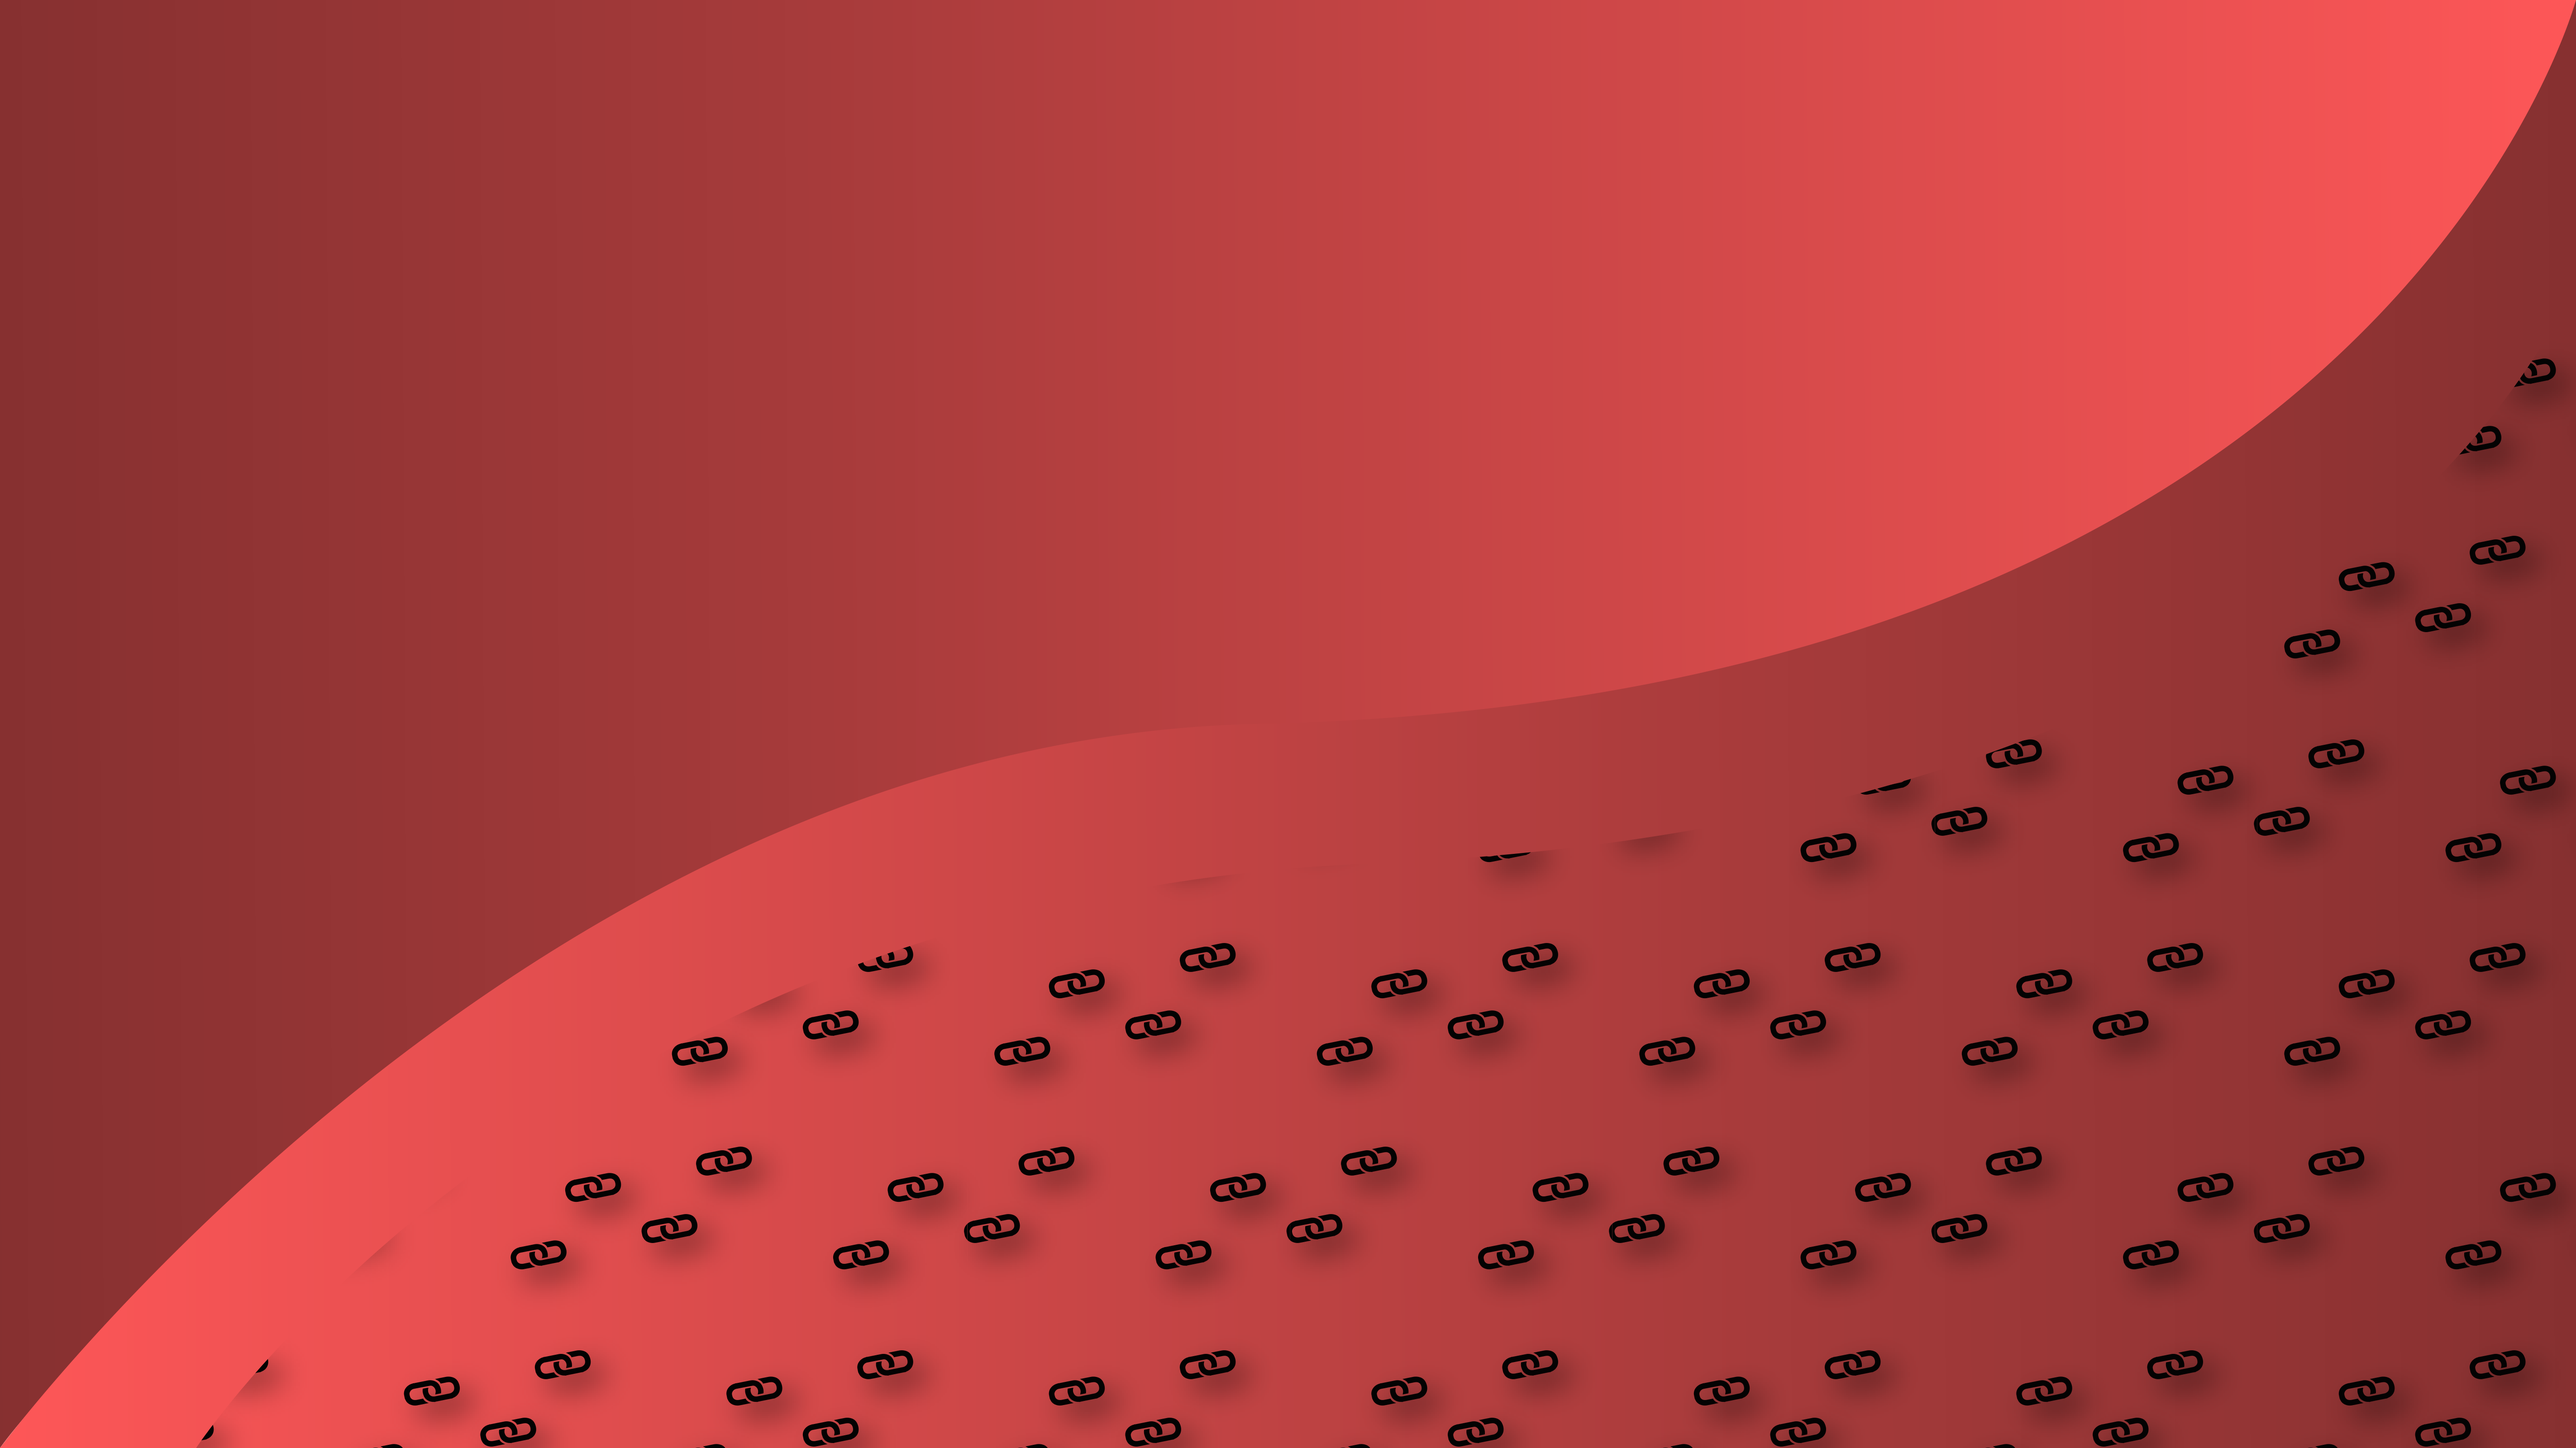
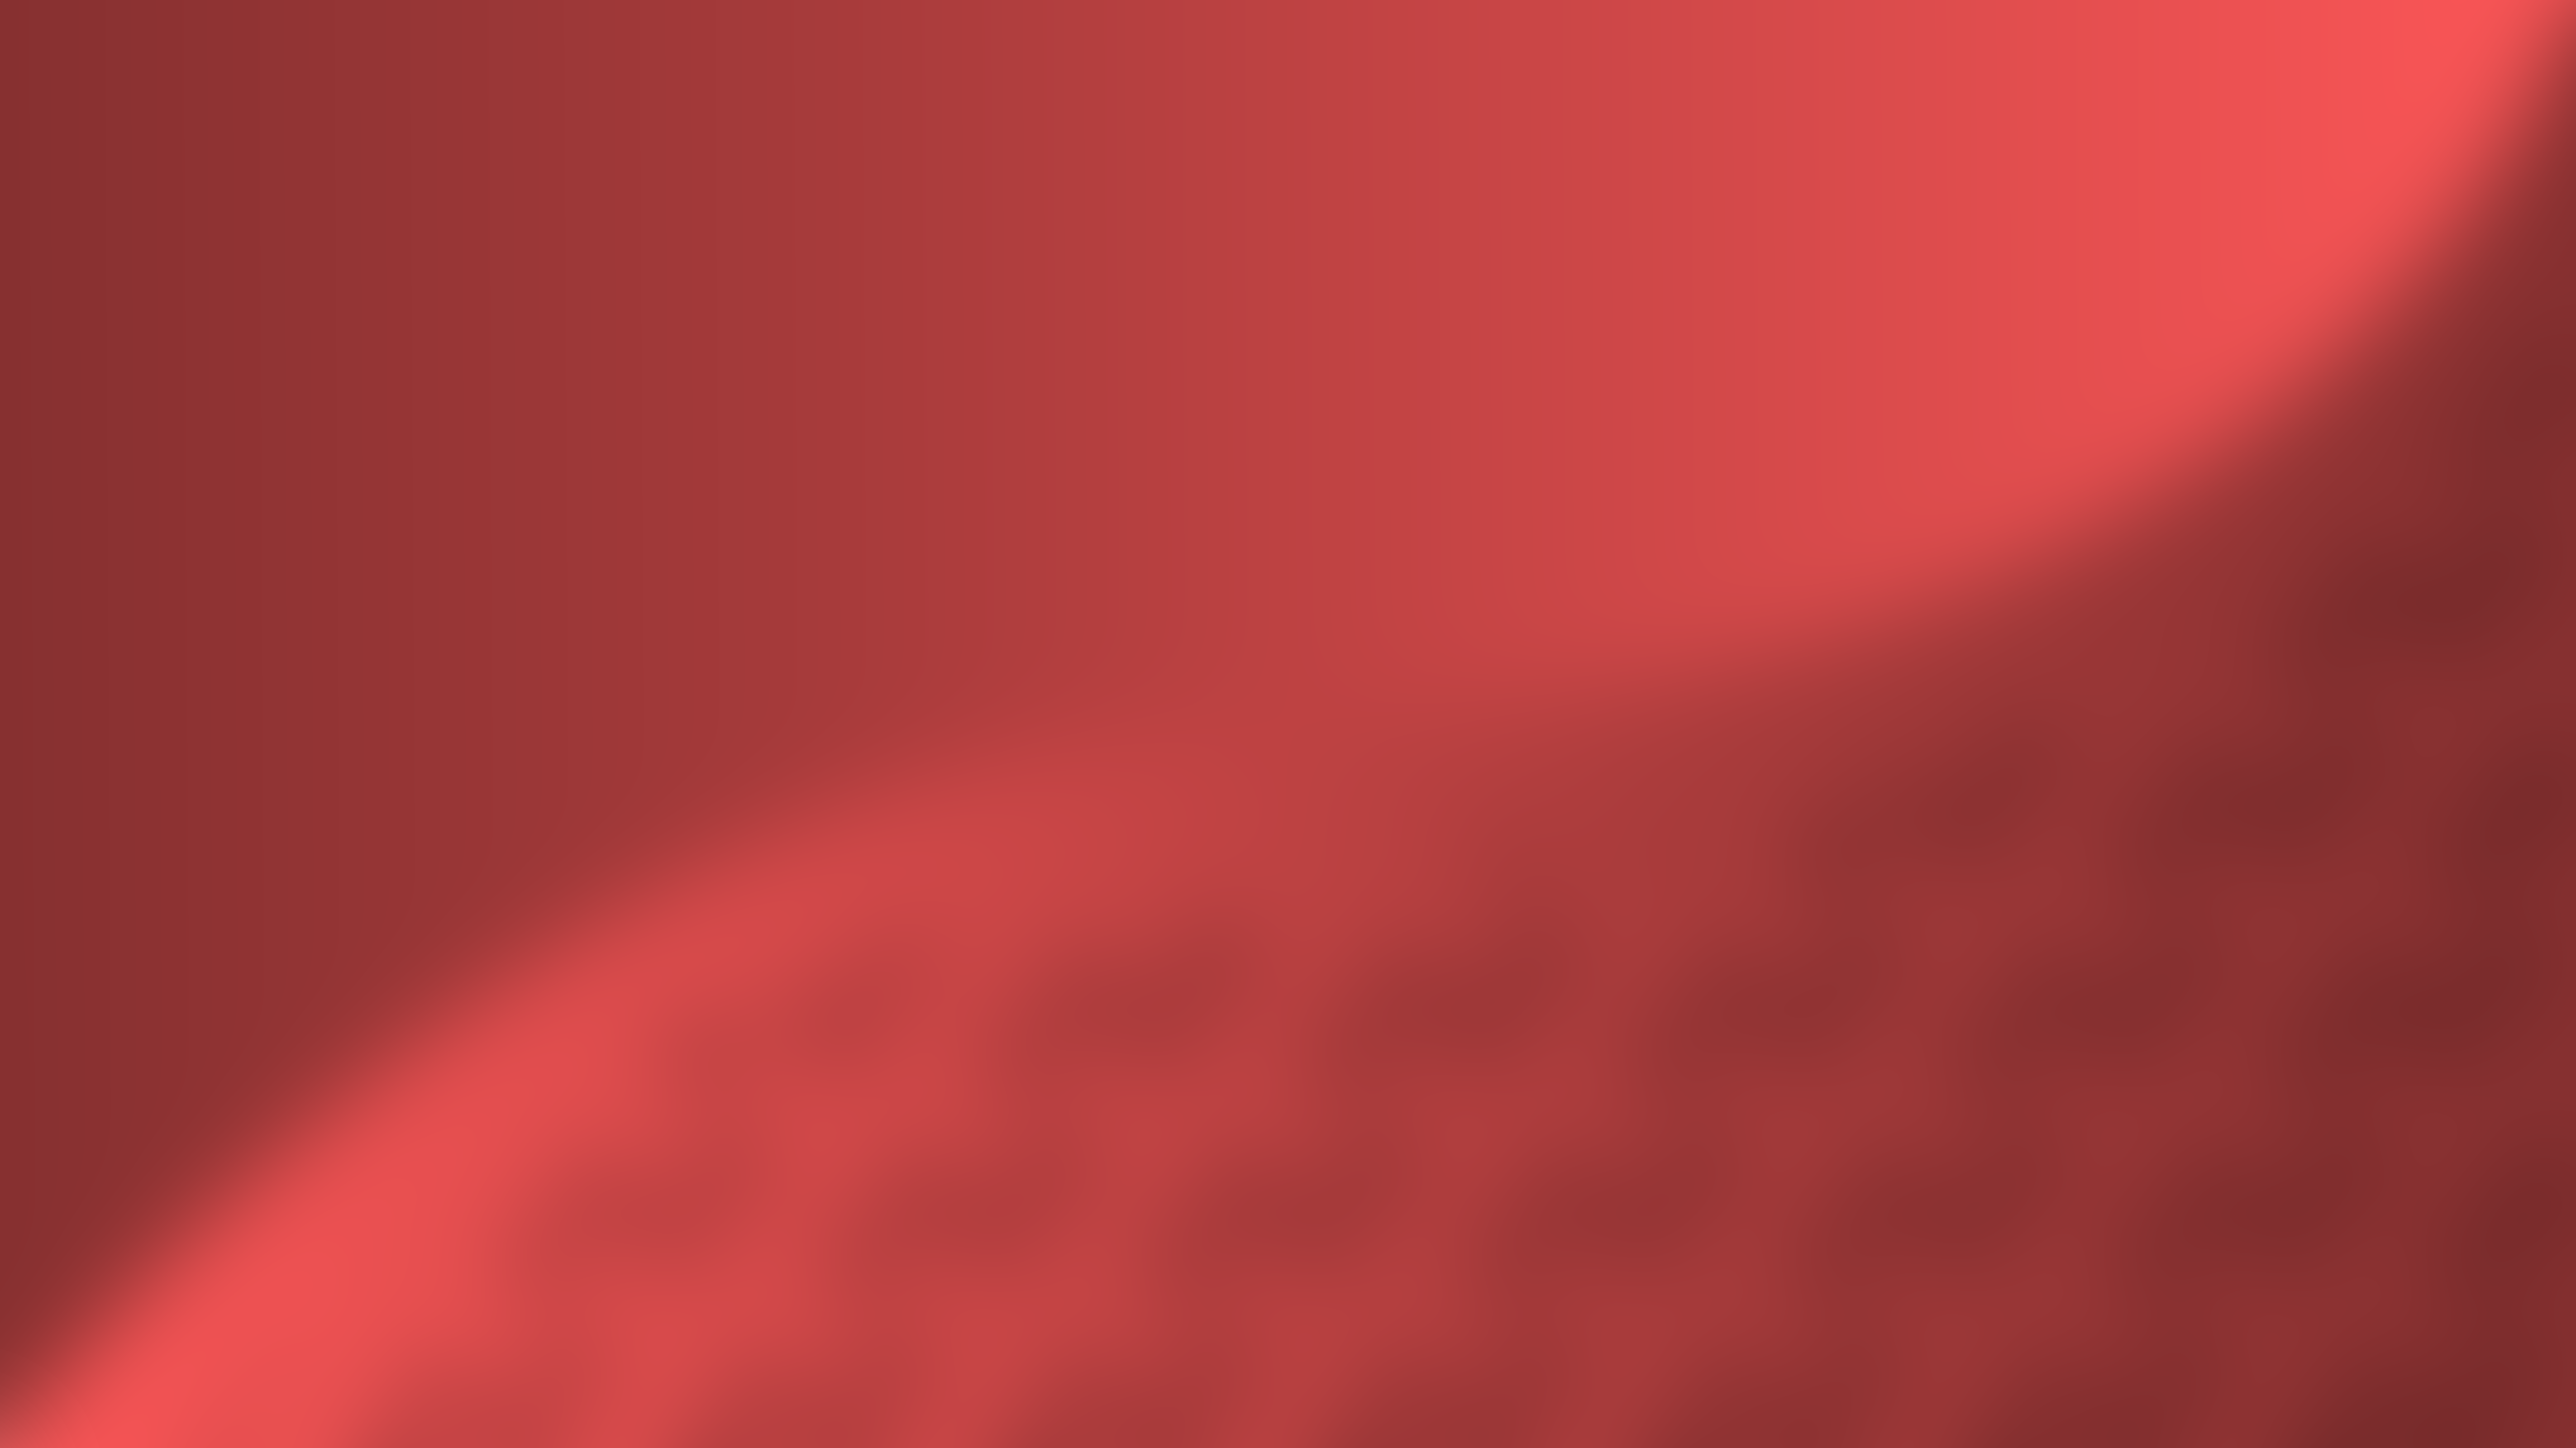
update login background

diff --git a/admin/index.php b/admin/index.php
@@ -29,7 +29,7 @@ if (!file_exists('../conn.php')) {
             display: flex;
             justify-content: center;
             align-items: center;
-            background: url('materials/background.png') no-repeat center center fixed;
+            background: url('materials/background2.webp') no-repeat center center fixed;
             background-size: cover;
             overflow: hidden;
         }
